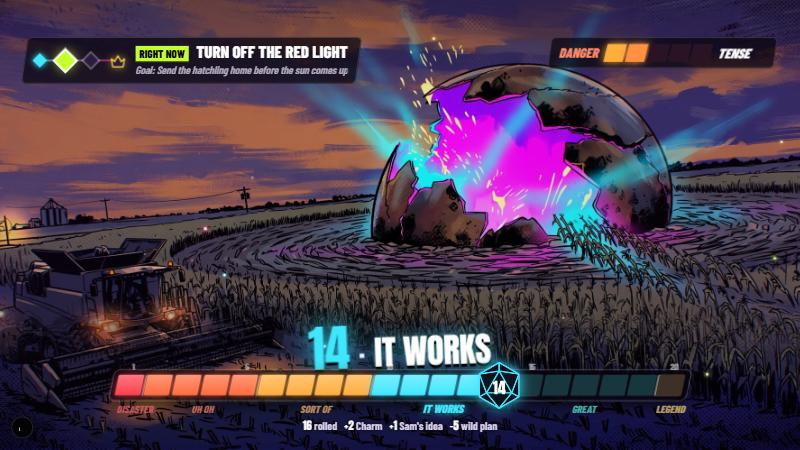
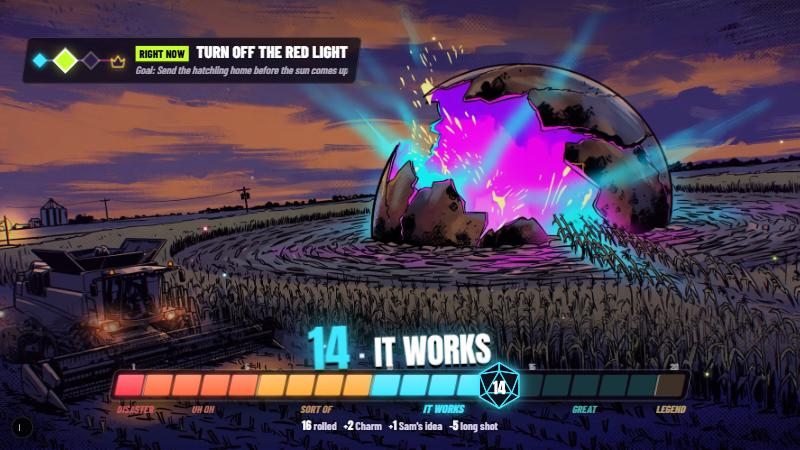
Lobby QR in by ~0.85 s; plan chip shows BOLD / LONG SHOT (was the raw tier word risky/wild); /tv-preview drops the cut danger bar; after shots retaken

Changed region(s): [[0.6875, 0.0622, 0.9688, 0.1556], [0.375, 0.9333, 0.625, 0.9644]]

diff --git a/game/src/app/tv-preview/page.tsx b/game/src/app/tv-preview/page.tsx
@@ -4,7 +4,7 @@
  *   /tv-preview?piece=turn      TurnCard + SuggestionBubbles (add &pick=1 for the credited idea)
  *   /tv-preview?piece=plan      PlanCard            (&tier=clever|solid|risky|wild|miracle)
  *   /tv-preview?piece=meter     QualityMeter + HUD  (&total=14 &nat=20|1)
- *   /tv-preview?piece=outcome   OutcomeCaption + HUD (&danger=4)
+ *   /tv-preview?piece=outcome   OutcomeCaption + HUD
  *   /tv-preview?piece=montage   EndingMontage from the first panel (&at=3 jumps to the reveal)
  *   /tv-preview?piece=reveal    straight to "Based on a true story" (&author=Maya for the Our Stories wording)
  *   /tv-preview?piece=autoplay  a full fake game on a loop: two turns (ideas, plan, roll, outcome), a nat-20 finale,
@@ -55,18 +55,18 @@ const IDEAS2 = [
   { id: "d", text: "Give it a giant pillow to hug", by: "Jay", color: "#3de7ff", portrait: "/heroes/v2/night-baker.webp" },
   { id: "e", text: "Sing the pumpkin song backwards", by: "Luis", color: "#c6ff2e" },
 ];
-type Step = { k: string; ms: number; art: number; at: number; danger: number };
+type Step = { k: string; ms: number; art: number; at: number };
 const STEPS: Step[] = [
-  { k: "turn", ms: 7600, art: 0, at: 1, danger: 1 },
-  { k: "plan", ms: 5200, art: 0, at: 1, danger: 1 },
-  { k: "meter", ms: 5200, art: 0, at: 1, danger: 1 },
-  { k: "outcome", ms: 6500, art: 1, at: 2, danger: 1 },
-  { k: "turn2", ms: 6800, art: 1, at: 2, danger: 2 },
-  { k: "plan2", ms: 4800, art: 1, at: 2, danger: 2 },
-  { k: "meter2", ms: 5200, art: 1, at: 2, danger: 2 },
-  { k: "outcome2", ms: 6200, art: 2, at: 3, danger: 4 },
-  { k: "finale", ms: 5600, art: 2, at: 3, danger: 4 },
-  { k: "montage", ms: 26000, art: 2, at: 3, danger: 4 },
+  { k: "turn", ms: 7600, art: 0, at: 1 },
+  { k: "plan", ms: 5200, art: 0, at: 1 },
+  { k: "meter", ms: 5200, art: 0, at: 1 },
+  { k: "outcome", ms: 6500, art: 1, at: 2 },
+  { k: "turn2", ms: 6800, art: 1, at: 2 },
+  { k: "plan2", ms: 4800, art: 1, at: 2 },
+  { k: "meter2", ms: 5200, art: 1, at: 2 },
+  { k: "outcome2", ms: 6200, art: 2, at: 3 },
+  { k: "finale", ms: 5600, art: 2, at: 3 },
+  { k: "montage", ms: 26000, art: 2, at: 3 },
 ];
 
 function AutoPlay({ from }: { from?: string }) {
@@ -108,7 +108,7 @@ function AutoPlay({ from }: { from?: string }) {
       body = <QualityMeter total={14} parts={[{ label: "rolled", value: 13 }, { label: "Sam's idea", value: 1, signed: true }]} />;
       break;
     case "meter2":
-      body = <QualityMeter total={1} natural={1} parts={[{ label: "rolled", value: 1 }, { label: "Charm", value: 1, signed: true }, { label: "risky plan", value: -3, signed: true }]} />;
+      body = <QualityMeter total={1} natural={1} parts={[{ label: "rolled", value: 1 }, { label: "Charm", value: 1, signed: true }, { label: "bold plan", value: -3, signed: true }]} />;
       break;
     case "finale":
       body = <QualityMeter total={22} natural={20} parts={[{ label: "rolled", value: 20 }, { label: "Guts", value: 2, signed: true }]} />;
@@ -127,7 +127,7 @@ function AutoPlay({ from }: { from?: string }) {
     <div style={{ position: "fixed", inset: 0, background: "#07040d", overflow: "hidden" }}>
       <SceneArt src={ART[step.art]} />
       <TvStage>
-        {step.k !== "montage" && <HudStrip ladder={ladder} danger={{ level: step.danger, max: 5 }} />}
+        {step.k !== "montage" && <HudStrip ladder={ladder} />}
         <PhaseSwap k={step.k}>{body}</PhaseSwap>
       </TvStage>
     </div>
@@ -232,7 +232,7 @@ export default function TvPreview() {
       <div key={run} style={{ position: "fixed", inset: 0, background: "#07040d", overflow: "hidden" }}>
         <SceneArt src={ART[2]} dim={0.6} />
         <TvStage>
-          {piece !== "finale-vote" && <HudStrip ladder={{ steps: 4, at: 3, now: "Send the hatchling home", goal: LADDER.goal }} danger={{ level: 3, max: 5 }} />}
+          {piece !== "finale-vote" && <HudStrip ladder={{ steps: 4, at: 3, now: "Send the hatchling home", goal: LADDER.goal }} />}
           <FinalePreview piece={piece} stageParam={q.get("stage") ?? undefined} />
         </TvStage>
       </div>
@@ -242,7 +242,6 @@ export default function TvPreview() {
   const tier = (q.get("tier") ?? "wild") as Tier;
   const total = Number(q.get("total") ?? 14);
   const nat = q.get("nat") ? Number(q.get("nat")) : undefined;
-  const danger = Number(q.get("danger") ?? 2);
 
   if (piece === "montage" || piece === "reveal")
     return (
@@ -257,7 +256,7 @@ export default function TvPreview() {
       <TvStage>
         {piece === "turn" && (
           <>
-            <HudStrip ladder={LADDER} danger={{ level: danger, max: 5 }} />
+            <HudStrip ladder={LADDER} />
             <TurnCard hero={ROSA} playedBy="Jay" turn={{ n: 1, of: 3 }} prompt="Everyone else: suggest a move" k="rosa" />
             <SuggestionBubbles items={ideas} pickedId={picked} />
           </>
@@ -270,7 +269,7 @@ export default function TvPreview() {
         )}
         {piece === "plan" && (
           <>
-            <HudStrip ladder={LADDER} danger={{ level: danger, max: 5 }} />
+            <HudStrip ladder={LADDER} />
             <PlanCard
               hero={{ name: "Rosa", color: "#3de7ff", portrait: "/heroes/v2/night-baker.webp" }}
               plan="I hum it a slow lullaby and then I tuck it in with a blanket"
@@ -282,7 +281,7 @@ export default function TvPreview() {
         )}
         {piece === "meter" && (
           <>
-            <HudStrip ladder={LADDER} danger={{ level: danger, max: 5 }} />
+            <HudStrip ladder={LADDER} />
             <QualityMeter
               total={total}
               natural={nat}
@@ -290,14 +289,14 @@ export default function TvPreview() {
                 { label: "rolled", value: nat ?? 16 },
                 { label: "Charm", value: 2, signed: true },
                 { label: "Sam's idea", value: 1, signed: true },
-                { label: "wild plan", value: -5, signed: true },
+                { label: "long shot", value: -5, signed: true },
               ]}
             />
           </>
         )}
         {piece === "outcome" && (
           <>
-            <HudStrip ladder={{ ...LADDER, at: 2, now: "Get the key from the ranger" }} danger={{ level: danger, max: 5 }} />
+            <HudStrip ladder={{ ...LADDER, at: 2, now: "Get the key from the ranger" }} />
             <OutcomeCaption
               text="Rosa asks the park ranger about the creature with Mr. Han. The ranger says it wants the red light off so it can finally sleep."
               tag="It works"

diff --git a/game/src/components/tvskin/PlanCard.tsx b/game/src/components/tvskin/PlanCard.tsx
@@ -2,6 +2,7 @@
 import { useEffect, useRef } from "react";
 import type { Tier } from "@/lib/types";
 import { TIER_SHIFT } from "@/lib/grade";
+import { TIER_LABEL } from "@/lib/rules";
 import { playSfx } from "@/lib/sound";
 import { CreditChip, D20Glyph, Face, TIER_LOOK, fmtSigned, possessive, type Css } from "./shared";
 import { shakeStage } from "./motion";
@@ -71,7 +72,7 @@ export function PlanCard({ hero, plan, tier, shift, stat, credit, why, cta = "Ro
             </span>
           )}
           <span className="tvx-chip tvx-chip-tier">
-            <b>{fmtSigned(sh)}</b> {tier}
+            <b>{fmtSigned(sh)}</b> {TIER_LABEL[tier].toLowerCase()}
           </span>
           <span className="tvx-chip-eq">=</span>
           <span className="tvx-chip tvx-chip-sum">

diff --git a/game/src/app/lobby.css b/game/src/app/lobby.css
@@ -837,7 +837,7 @@
   top: calc(var(--u) * 3.6);
   width: calc(var(--u) * 28.4);
   transform: rotate(2.4deg);
-  animation: lb-join-in 1s cubic-bezier(0.25, 1.5, 0.45, 1) both 0.25s;
+  animation: lb-join-in 0.8s cubic-bezier(0.25, 1.5, 0.45, 1) both 0.05s; /* in by ~0.85 s: judges scan right away */
 }
 @keyframes lb-join-in {
   from { transform: translate3d(calc(var(--u) * 20), 0, 0) rotate(14deg); opacity: 0; }
